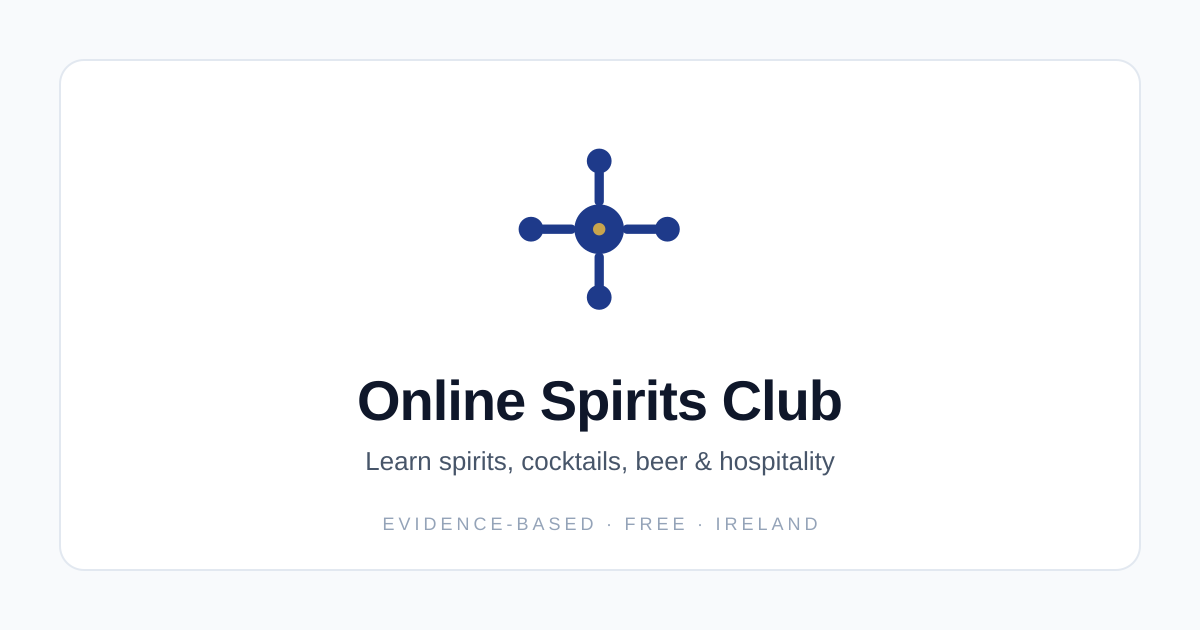
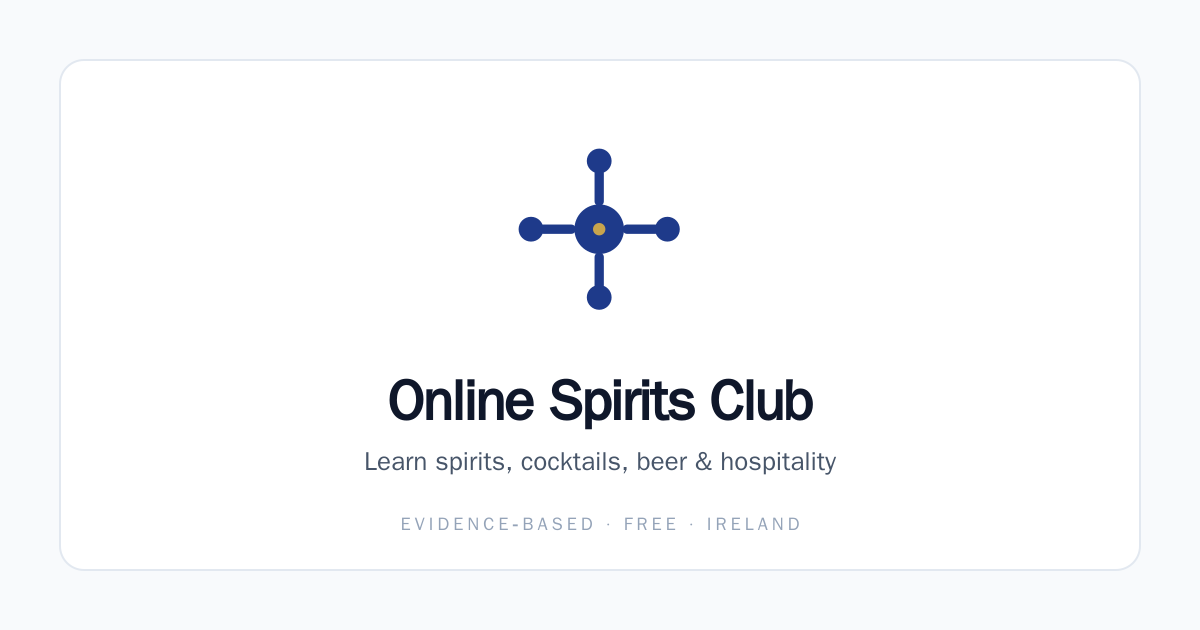
auto-commit for d466bac4-8d40-4821-9819-ffc2798c5991

diff --git a/app/brand/page.js b/app/brand/page.js
@@ -1,0 +1,112 @@
+// Public brand reference page — /brand
+// Lists every logo variant with a "Download SVG" link. SSR so it can be shared
+// with press / partners without any client JS. Not linked from any nav — you
+// share the URL manually.
+
+import Link from 'next/link';
+import PublicFooter from '@/components/PublicFooter';
+import OscLogo from '@/components/OscLogo';
+
+export const metadata = {
+  title: 'Brand Kit — Online Spirits Club',
+  description: 'Download the official Online Spirits Club logo variants.',
+  robots: { index: false }, // internal reference, not for search
+};
+
+const VARIANTS = [
+  { name: 'Horizontal', file: '/brand/osc-logo-horizontal.svg', bg: 'bg-white', desc: 'Primary lockup — symbol + wordmark. Use on white or very light backgrounds.' },
+  { name: 'Compact',    file: '/brand/osc-logo-compact.svg',    bg: 'bg-white', desc: 'Short-form lockup — symbol + OSC. Use in narrow contexts, badges, footers.' },
+  { name: 'Icon only',  file: '/brand/osc-logo-icon.svg',       bg: 'bg-white', desc: 'Standalone knowledge-node symbol. Favicon, avatars, app badge.' },
+  { name: 'Navy',       file: '/brand/osc-logo-navy.svg',       bg: 'bg-white', desc: 'Single-colour navy — print, embossing, engraving.' },
+  { name: 'White',      file: '/brand/osc-logo-white.svg',      bg: 'bg-slate-900', desc: 'For dark or photographic backgrounds. Gold accent preserved.' },
+  { name: 'Favicon',    file: '/brand/osc-favicon.svg',         bg: 'bg-white', desc: 'Aggressively simplified for 16-32px rendering. No accent.' },
+];
+
+const COLORS = [
+  { name: 'Navy',  hex: '#1E3A8A', use: 'Primary. Symbol + wordmark.', text: 'text-white' },
+  { name: 'Gold',  hex: '#C8A44D', use: 'Accent only. Center of the mark.', text: 'text-white' },
+  { name: 'Ink',   hex: '#0F172A', use: 'Wordmark on light backgrounds.', text: 'text-white' },
+  { name: 'White', hex: '#FFFFFF', use: 'Reversed marks + light backgrounds.', text: 'text-slate-900 border' },
+];
+
+export default function BrandPage() {
+  return (
+    <div className="min-h-screen flex flex-col bg-slate-50">
+      <header className="border-b border-slate-200 bg-white">
+        <div className="mx-auto max-w-6xl px-4 h-14 flex items-center justify-between">
+          <Link href="/" className="flex items-center gap-2" aria-label="Online Spirits Club — home">
+            <OscLogo variant="full" size={28} />
+          </Link>
+          <Link href="/" className="text-sm text-slate-500 hover:text-slate-800">Home</Link>
+        </div>
+      </header>
+      <main className="flex-1 mx-auto max-w-5xl w-full px-4 py-10 space-y-12">
+        <div>
+          <h1 className="text-3xl font-bold tracking-tight text-slate-900">Brand Kit</h1>
+          <p className="mt-2 text-slate-600 max-w-2xl">
+            Official Online Spirits Club logo variants. Feel free to use them for press coverage, integration UIs and educational partnerships. Please don&apos;t alter the geometry or recolour.
+          </p>
+        </div>
+
+        <section>
+          <h2 className="text-lg font-semibold text-slate-900 mb-4">Logo variants</h2>
+          <div className="grid gap-4 md:grid-cols-2">
+            {VARIANTS.map((v) => (
+              <div key={v.name} className="rounded-2xl border border-slate-200 bg-white overflow-hidden">
+                <div className={`${v.bg} h-40 grid place-items-center p-6`}>
+                  <img src={v.file} alt={`${v.name} variant`} className="max-h-16 w-auto" />
+                </div>
+                <div className="p-4 border-t border-slate-100 flex items-start justify-between gap-3">
+                  <div>
+                    <div className="font-semibold text-slate-900">{v.name}</div>
+                    <p className="text-xs text-slate-500 mt-1 leading-relaxed">{v.desc}</p>
+                  </div>
+                  <a href={v.file} download className="shrink-0 h-9 px-3 rounded-md border border-slate-300 bg-white hover:bg-slate-50 text-slate-700 text-xs inline-flex items-center">Download SVG</a>
+                </div>
+              </div>
+            ))}
+          </div>
+        </section>
+
+        <section>
+          <h2 className="text-lg font-semibold text-slate-900 mb-4">Colours</h2>
+          <div className="grid gap-3 md:grid-cols-4">
+            {COLORS.map((c) => (
+              <div key={c.name} className="rounded-xl overflow-hidden border border-slate-200 bg-white">
+                <div className={`${c.text} h-20 flex items-end p-3`} style={{ background: c.hex }}>
+                  <div>
+                    <div className="text-xs uppercase tracking-widest font-semibold">{c.name}</div>
+                    <div className="text-sm font-mono">{c.hex}</div>
+                  </div>
+                </div>
+                <p className="p-3 text-xs text-slate-500">{c.use}</p>
+              </div>
+            ))}
+          </div>
+        </section>
+
+        <section>
+          <h2 className="text-lg font-semibold text-slate-900 mb-4">Typography</h2>
+          <div className="rounded-2xl border border-slate-200 bg-white p-6 space-y-3" style={{ fontFamily: "var(--font-manrope), Manrope, sans-serif" }}>
+            <div className="text-4xl font-extrabold tracking-tight text-slate-900">Online Spirits Club</div>
+            <div className="text-sm text-slate-500">Manrope Bold (700) &middot; wordmark</div>
+            <div className="text-4xl font-extrabold tracking-widest text-slate-900">OSC</div>
+            <div className="text-sm text-slate-500">Manrope ExtraBold (800) &middot; monogram, +6% letter-spacing</div>
+          </div>
+        </section>
+
+        <section>
+          <h2 className="text-lg font-semibold text-slate-900 mb-4">Social preview</h2>
+          <div className="rounded-2xl border border-slate-200 bg-white overflow-hidden">
+            <img src="/og-image.png" alt="Open Graph card" className="w-full" />
+            <div className="p-4 border-t border-slate-100 flex items-center justify-between">
+              <div className="text-xs text-slate-500">1200 × 630 &middot; Used for Twitter/X, LinkedIn, Facebook link previews.</div>
+              <a href="/og-image.png" download className="h-9 px-3 rounded-md border border-slate-300 bg-white hover:bg-slate-50 text-slate-700 text-xs inline-flex items-center">Download PNG</a>
+            </div>
+          </div>
+        </section>
+      </main>
+      <PublicFooter />
+    </div>
+  );
+}

diff --git a/components/OscLogo.js b/components/OscLogo.js
@@ -63,8 +63,8 @@ export default function OscLogo({
   }
 
   const label = variant === 'compact' ? 'OSC' : 'Online Spirits Club'
-  const labelSize = variant === 'compact' ? size * 0.55 : size * 0.42
-  const labelWeight = 'font-semibold tracking-tight'
+  const labelSize = variant === 'compact' ? size * 0.78 : size * 0.62
+  const labelWeight = variant === 'compact' ? 'font-extrabold' : 'font-bold'
 
   return (
     <span
@@ -76,7 +76,11 @@ export default function OscLogo({
       <Symbol color={symbolColor} accent={showAccent} />
       <span
         className={`${labelWeight} text-slate-900 whitespace-nowrap ${labelClass}`}
-        style={{ fontSize: labelSize, letterSpacing: variant === 'compact' ? '0.02em' : '-0.01em' }}
+        style={{
+          fontSize: labelSize,
+          letterSpacing: variant === 'compact' ? '0.06em' : '-0.015em',
+          fontFamily: "var(--font-manrope), Manrope, 'Inter', -apple-system, 'Segoe UI', 'Helvetica Neue', Arial, sans-serif",
+        }}
       >
         {label}
       </span>

diff --git a/app/layout.js b/app/layout.js
@@ -1,5 +1,15 @@
 import './globals.css'
+import { Manrope } from 'next/font/google'
 import { Providers } from './providers'
+
+// Manrope \u2014 modern geometric sans, used for the OSC wordmark and headings.
+// display: 'swap' avoids FOIT; variable exposed as --font-manrope for CSS use.
+const manrope = Manrope({
+  subsets: ['latin'],
+  weight: ['500', '600', '700', '800'],
+  display: 'swap',
+  variable: '--font-manrope',
+})
 
 export const metadata = {
   metadataBase: new URL(process.env.NEXT_PUBLIC_BASE_URL || 'https://onlinespiritsclub.com'),
@@ -45,7 +55,7 @@ export const viewport = {
 
 export default function RootLayout({ children }) {
   return (
-    <html lang="en">
+    <html lang="en" className={manrope.variable}>
       <head>
         {/* Icons + manifest are auto-injected by Next.js metadata (see icons + manifest fields above). */}
         <meta name="apple-mobile-web-app-capable" content="yes" />

diff --git a/app/api/[[...path]]/route.js b/app/api/[[...path]]/route.js
@@ -154,6 +154,7 @@ const RESERVED_SLUGS = new Set([
 const RESERVED_PAGE_SLUGS = new Set([
   'admin', 'api', 'learn', 'p', 'unsubscribe',
   'verify-email', 'forgot-password', 'reset-password',
+  'brand',
   'manifest.json', 'sitemap.xml', 'robots.txt', 'favicon.ico', 'placeholder-lesson.svg',
   '_next', 'assets', 'static', 'images',
 ]);
